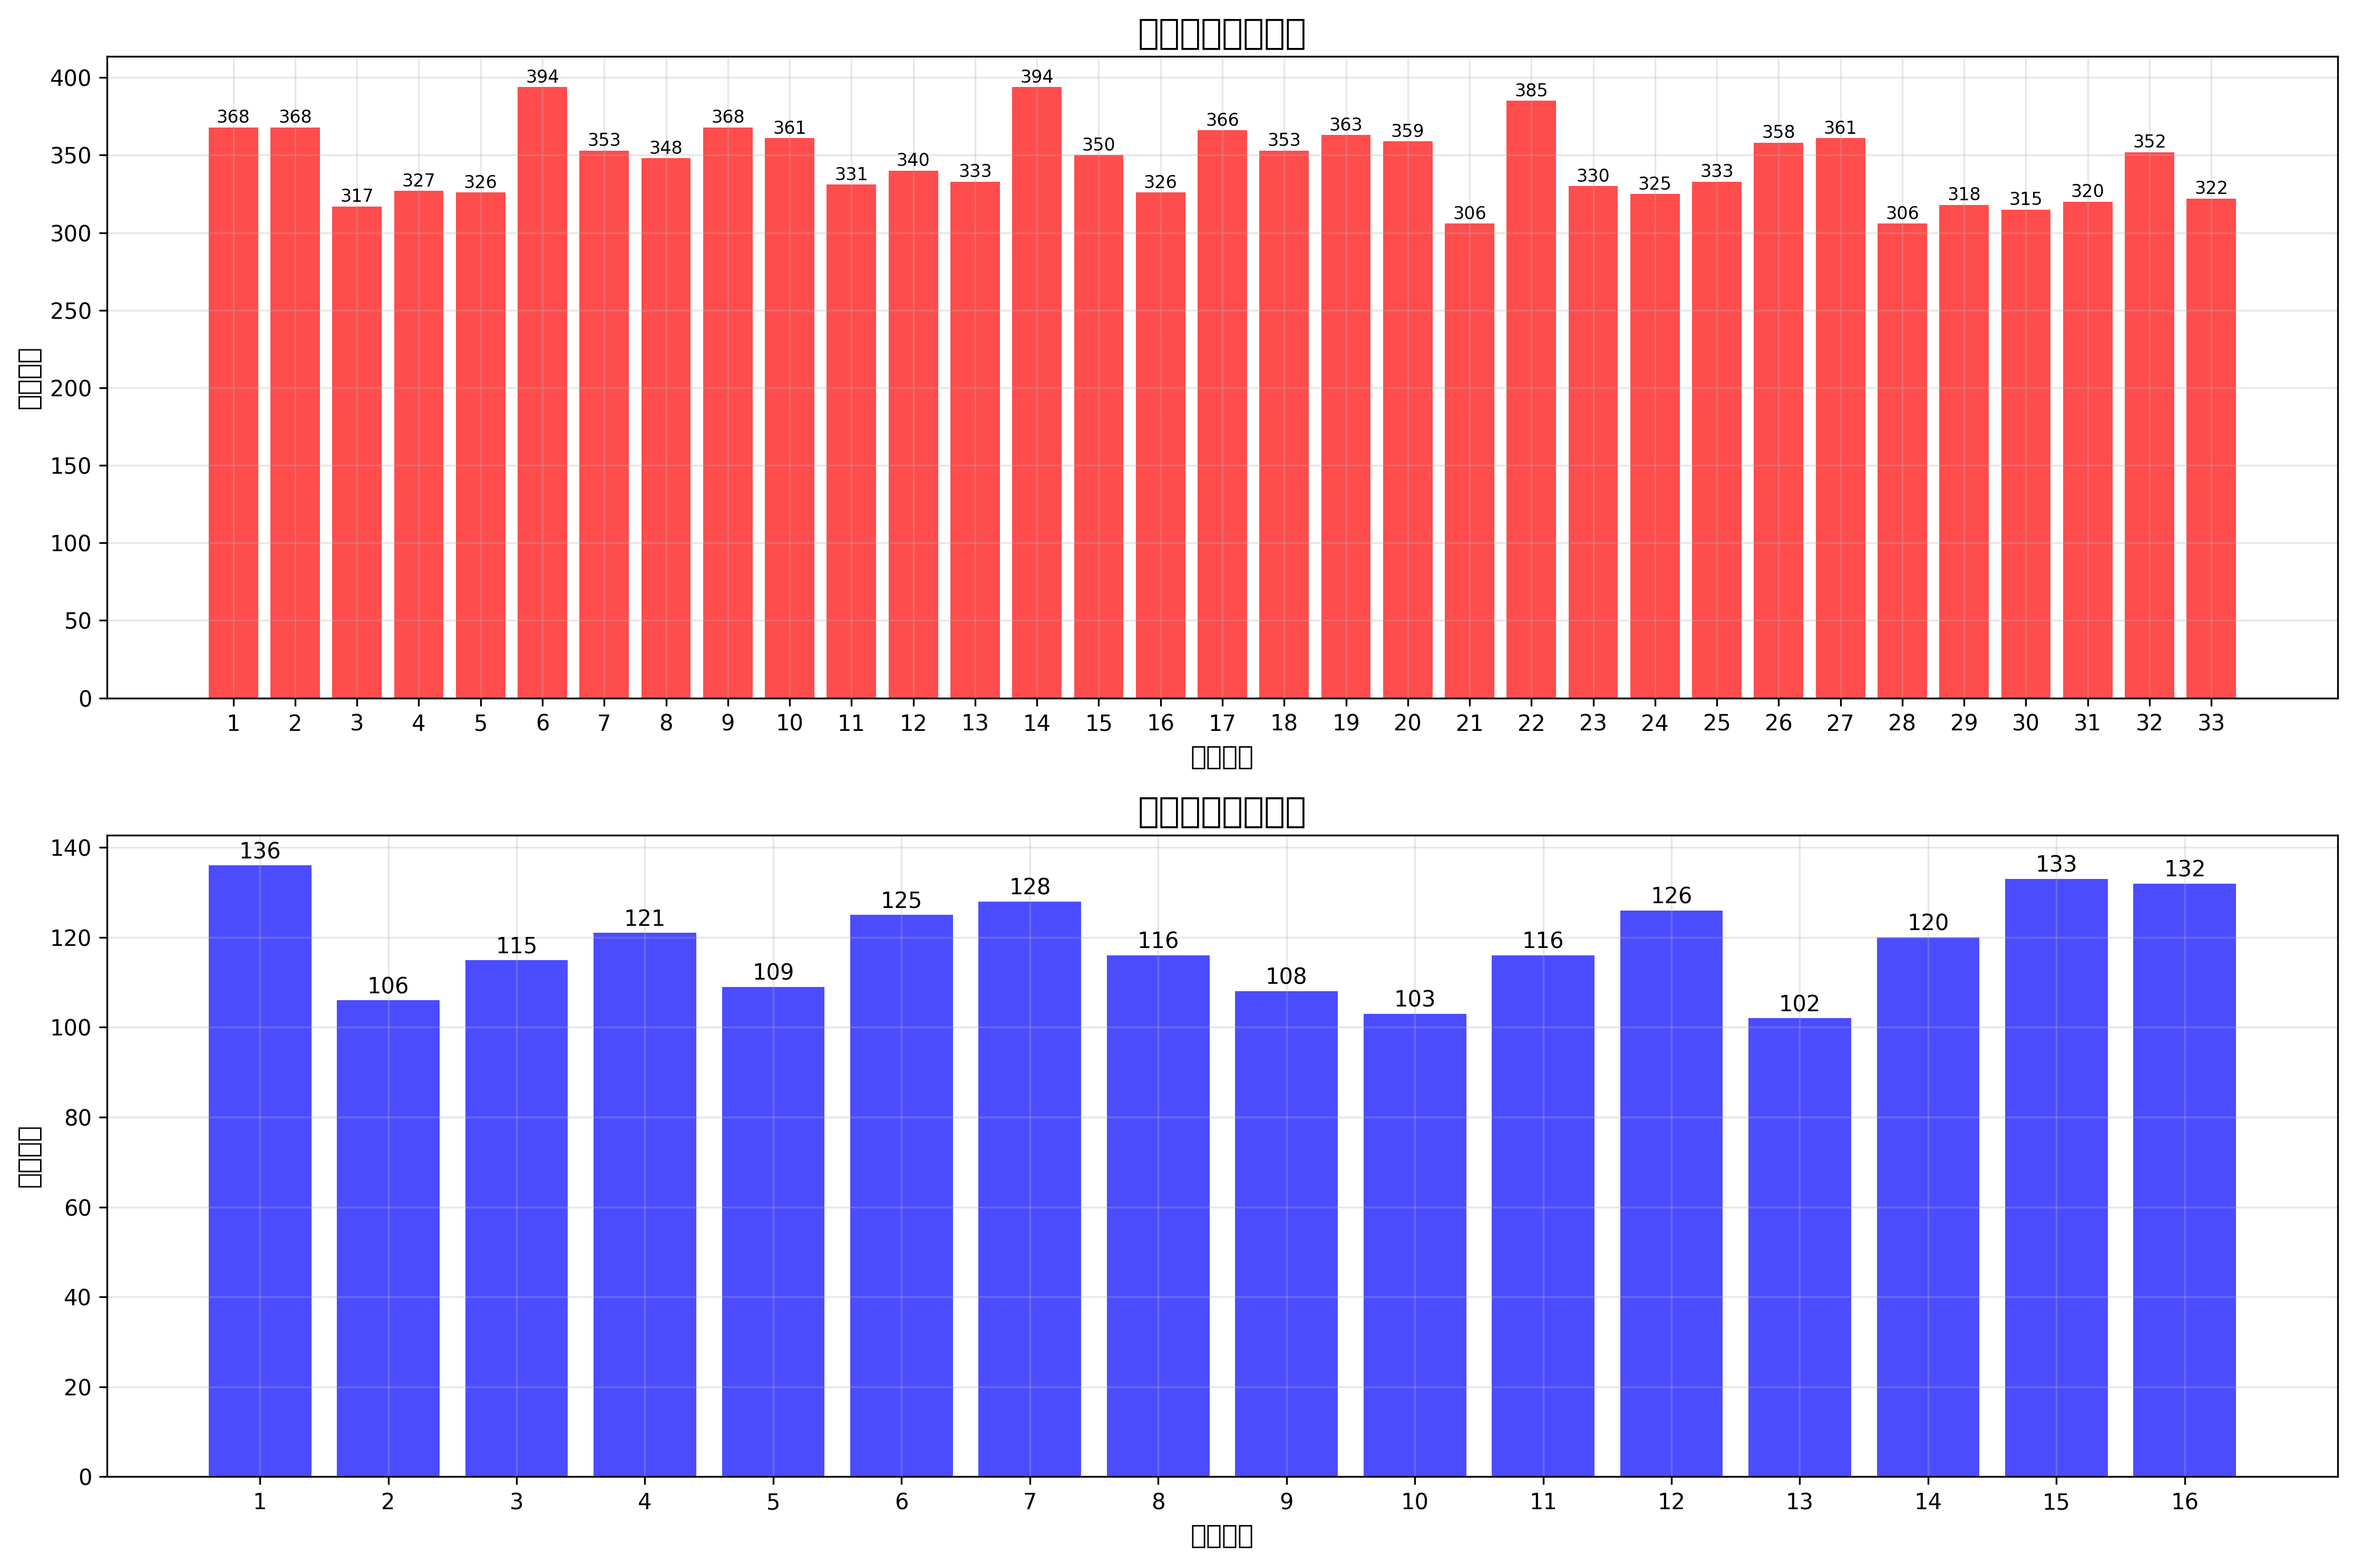
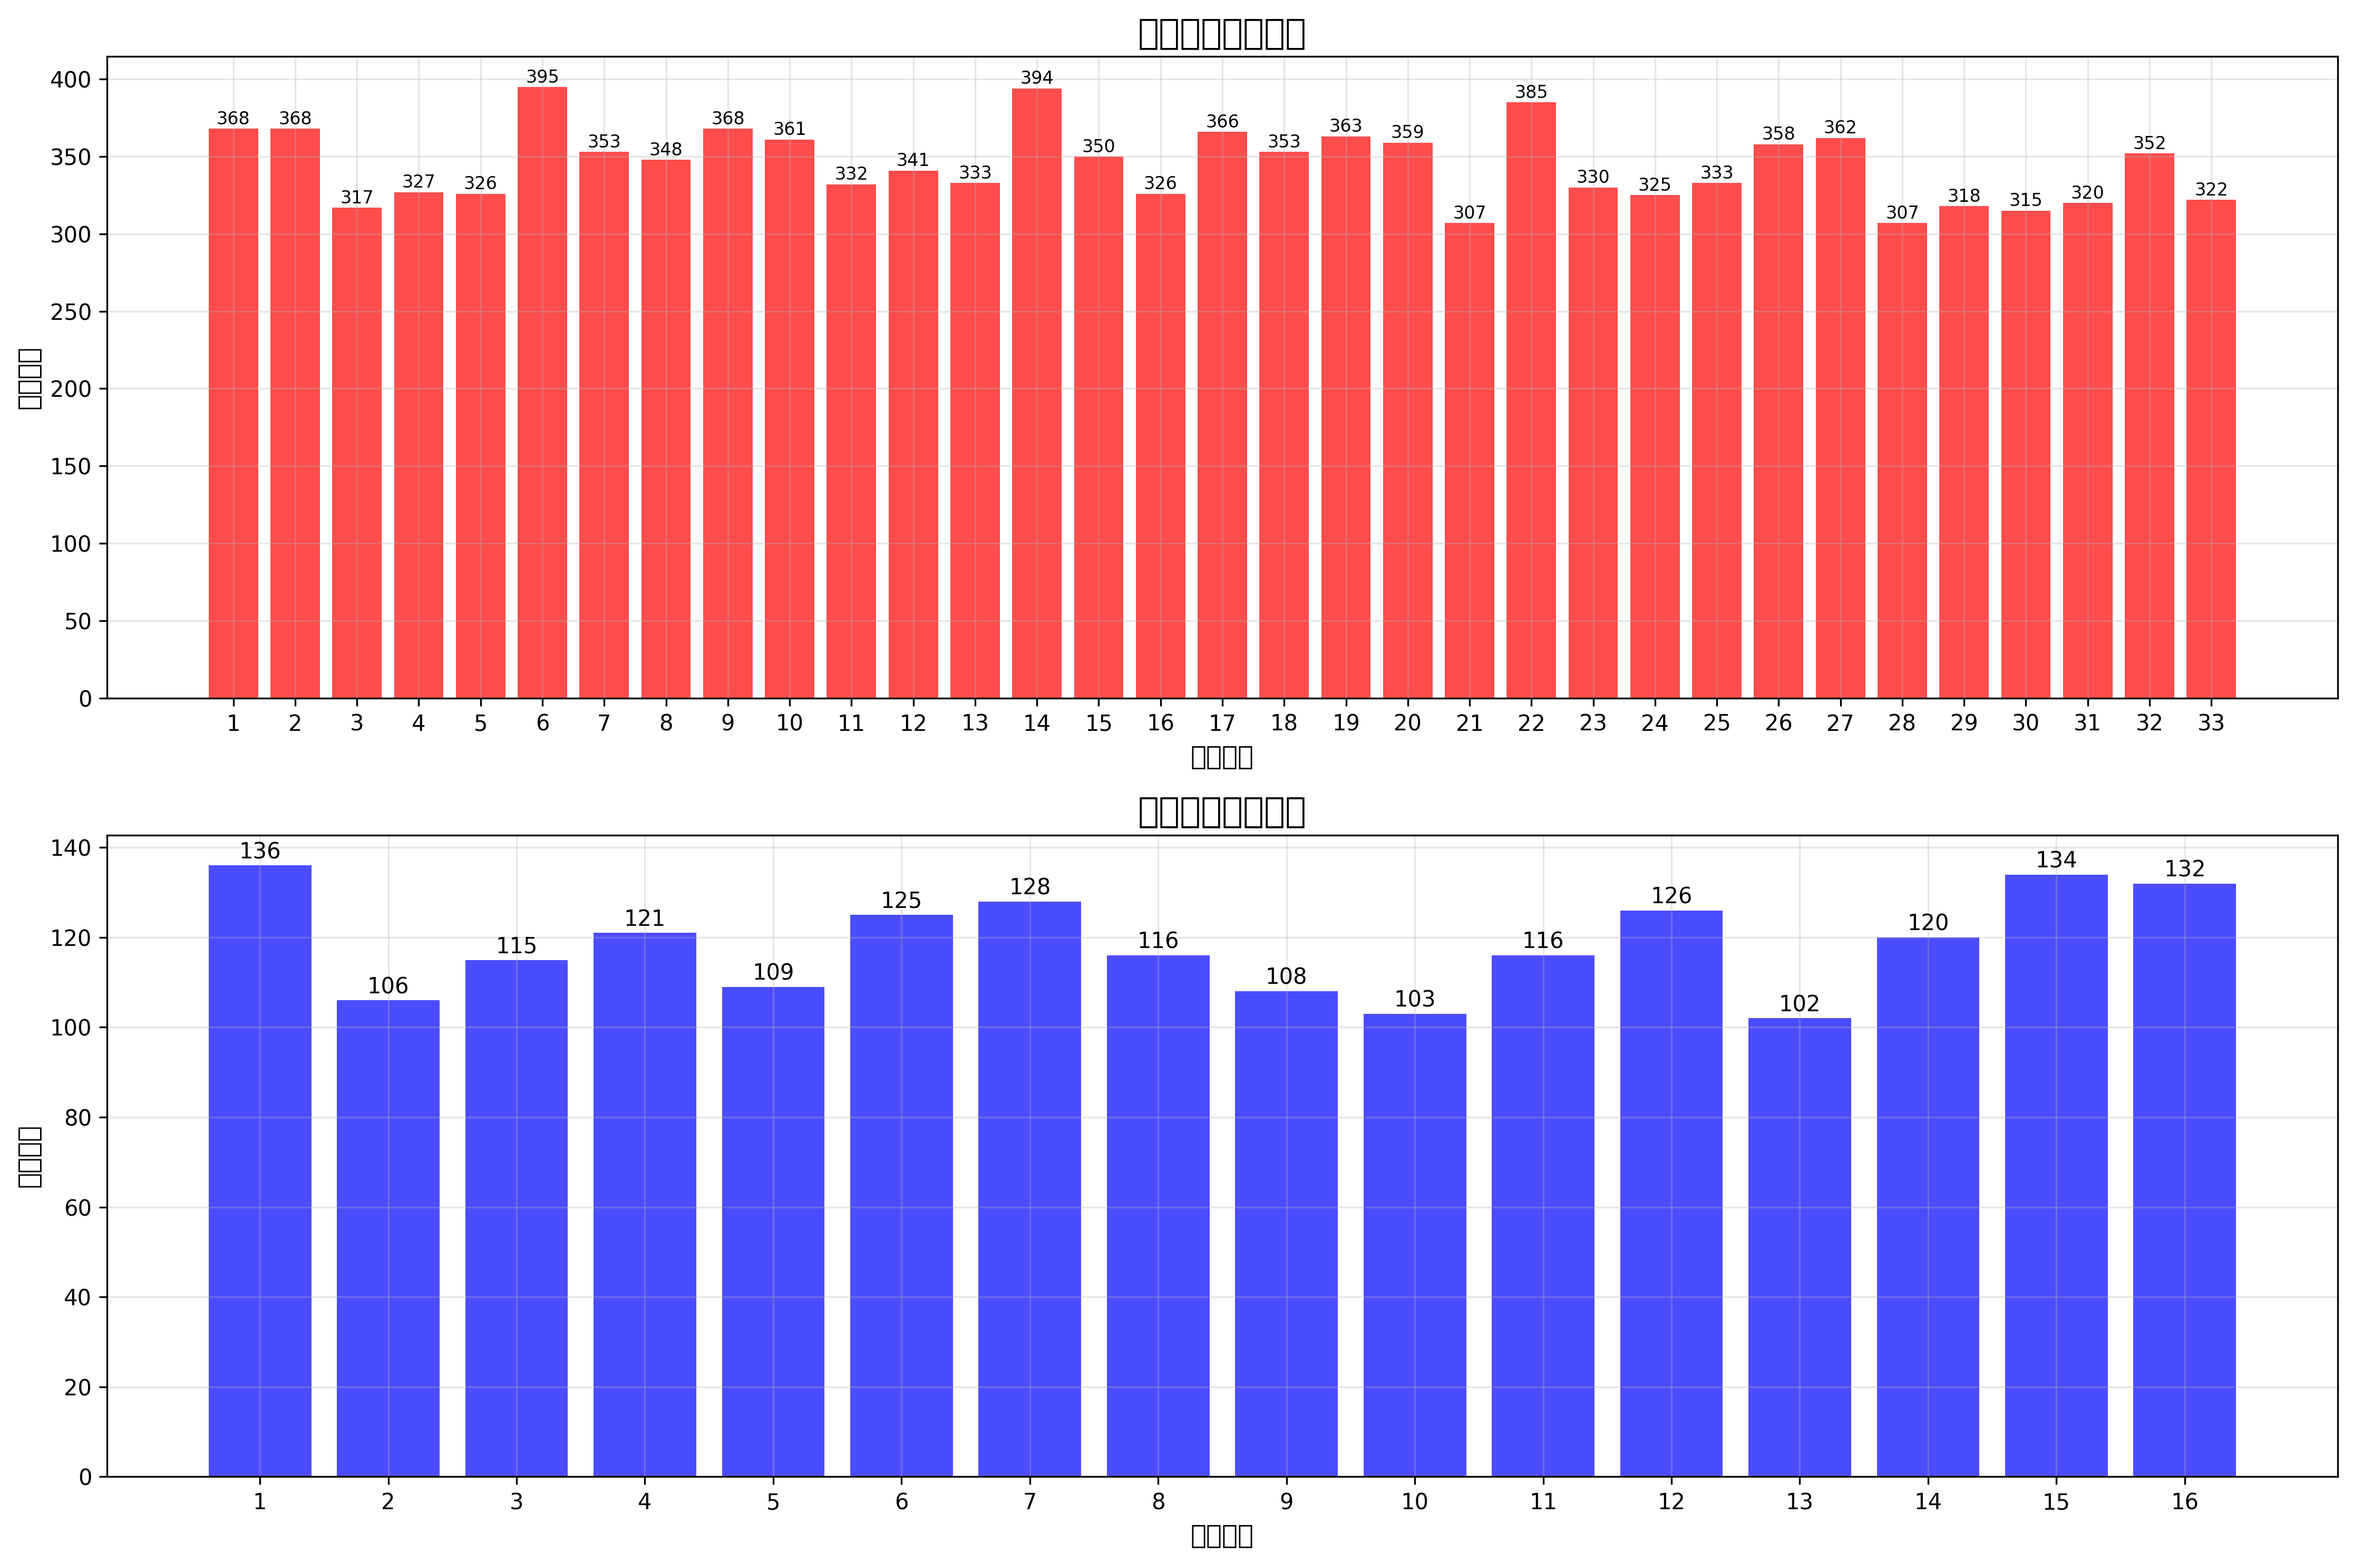
🎯 更新彩票数据和分析报告 - 2025-08-07 23:05:35 (UTC+8)

Changed region(s): [[0.8096, 0.124, 0.8407, 0.155], [0.0934, 0.062, 0.1246, 0.093]]

diff --git a/reports/analysis_report.md b/reports/analysis_report.md
@@ -1,9 +1,9 @@
 # 🎯 双色球数据分析报告
 
 ## 📊 报告信息
-- **生成时间**: 2025年08月06日 23:05:54 (UTC+8)
-- **数据期数**: 共 1896 期
-- **最新期号**: 2025089
+- **生成时间**: 2025年08月07日 23:05:35 (UTC+8)
+- **数据期数**: 共 1897 期
+- **最新期号**: 2025090
 - **数据来源**: 中国福利彩票官方API
 
 ## ⚠ 重要免责声明
@@ -15,6 +15,8 @@
 
 ### 最近5期开奖号码
 
+**2025090期** (2025-08-07): 06 11 12 21 27 28 + **15**
+
 **2025089期** (2025-08-05): 04 06 08 18 31 33 + **05**
 
 **2025088期** (2025-08-03): 01 03 13 18 21 25 + **06**
@@ -22,8 +24,6 @@
 **2025087期** (2025-07-31): 02 06 14 15 24 26 + **08**
 
 **2025086期** (2025-07-29): 02 06 08 10 17 24 + **06**
-
-**2025085期** (2025-07-27): 11 14 15 18 21 24 + **13**
 
 ---
 
@@ -33,7 +33,7 @@
 
 | 排名 | 号码 | 出现次数 | 出现频率 |
 |------|------|----------|----------|
-| 01 | **06** | 394 | 20.8% |
+| 01 | **06** | 395 | 20.8% |
 | 02 | **14** | 394 | 20.8% |
 | 03 | **22** | 385 | 20.3% |
 | 04 | **01** | 368 | 19.4% |
@@ -41,8 +41,8 @@
 | 06 | **09** | 368 | 19.4% |
 | 07 | **17** | 366 | 19.3% |
 | 08 | **19** | 363 | 19.1% |
-| 09 | **10** | 361 | 19.0% |
-| 10 | **27** | 361 | 19.0% |
+| 09 | **27** | 362 | 19.1% |
+| 10 | **10** | 361 | 19.0% |
 | 11 | **20** | 359 | 18.9% |
 | 12 | **26** | 358 | 18.9% |
 | 13 | **18** | 353 | 18.6% |
@@ -54,9 +54,9 @@
 | 排名 | 号码 | 出现次数 | 出现频率 |
 |------|------|----------|----------|
 | 01 | **01** | 136 | 7.2% |
-| 02 | **15** | 133 | 7.0% |
+| 02 | **15** | 134 | 7.1% |
 | 03 | **16** | 132 | 7.0% |
-| 04 | **07** | 128 | 6.8% |
+| 04 | **07** | 128 | 6.7% |
 | 05 | **12** | 126 | 6.6% |
 | 06 | **06** | 125 | 6.6% |
 | 07 | **04** | 121 | 6.4% |
@@ -72,7 +72,7 @@
 
 | 分布类型 | 出现次数 | 出现频率 |
 |----------|----------|----------|
-| 3奇3偶 | 670 | 35.3% |
+| 3奇3偶 | 671 | 35.4% |
 | 4奇2偶 | 471 | 24.8% |
 | 2奇4偶 | 454 | 23.9% |
 | 5奇1偶 | 144 | 7.6% |
@@ -93,7 +93,7 @@
 | 70-79 | 165 | 8.7% |
 | 80-89 | 265 | 14.0% |
 | 90-99 | 332 | 17.5% |
-| 100-109 | 349 | 18.4% |
+| 100-109 | 350 | 18.5% |
 | 110-119 | 305 | 16.1% |
 | 120-129 | 185 | 9.8% |
 | 130-139 | 97 | 5.1% |
@@ -110,7 +110,7 @@
 | 5-9 | 4 | 0.2% |
 | 10-14 | 72 | 3.8% |
 | 15-19 | 268 | 14.1% |
-| 20-24 | 569 | 30.0% |
+| 20-24 | 570 | 30.0% |
 | 25-29 | 717 | 37.8% |
 | 30-34 | 266 | 14.0% |
 
@@ -123,6 +123,7 @@
 
 | 期号 | 开奖日期 | 红球号码 | 蓝球 |
 |------|----------|----------|------|
+| 2025090 | 2025-08-07 | 06 11 12 21 27 28 | **15** |
 | 2025089 | 2025-08-05 | 04 06 08 18 31 33 | **05** |
 | 2025088 | 2025-08-03 | 01 03 13 18 21 25 | **06** |
 | 2025087 | 2025-07-31 | 02 06 14 15 24 26 | **08** |
@@ -132,14 +133,13 @@
 | 2025083 | 2025-07-22 | 10 15 16 17 27 29 | **12** |
 | 2025082 | 2025-07-20 | 04 06 09 14 32 33 | **11** |
 | 2025081 | 2025-07-17 | 03 06 18 20 23 28 | **05** |
-| 2025080 | 2025-07-15 | 03 07 08 10 16 19 | **05** |
 
 
 ### 热号分析
 
-**最近10期红球热号（出现2次及以上）**: 02 03 04 06 08 10 14 15 16 17 18 21 24 33
+**最近10期红球热号（出现2次及以上）**: 02 03 04 06 08 10 11 14 15 17 18 21 24 27 28 33
 
-**最近10期蓝球热号（出现2次及以上）**: 05 06
+**最近10期蓝球热号（出现2次及以上）**: 05 06 15
 
 ---
 
@@ -151,8 +151,8 @@
 - 特征: 1奇5偶 | 和值:97 | 跨度:30
 - 说明: 基于最高频号码的稳定组合
 
-**推荐组合 2** (均衡分布): 10 11 14 18 22 29 + **15**
-- 特征: 2奇4偶 | 和值:104 | 跨度:19
+**推荐组合 2** (均衡分布): 11 14 18 22 27 29 + **15**
+- 特征: 3奇3偶 | 和值:121 | 跨度:18
 - 说明: 高中低频均衡的平衡组合
 
 **推荐组合 3** (中频优先): 06 11 18 20 30 32 + **16**
@@ -222,6 +222,6 @@
 
 ---
 
-*报告生成时间: 2025年08月06日 23:05:54 (UTC+8)*  
+*报告生成时间: 2025年08月07日 23:05:35 (UTC+8)*  
 *数据来源: 中国福利彩票官方网站*  
 *仅供学习研究使用，请理性购彩*
